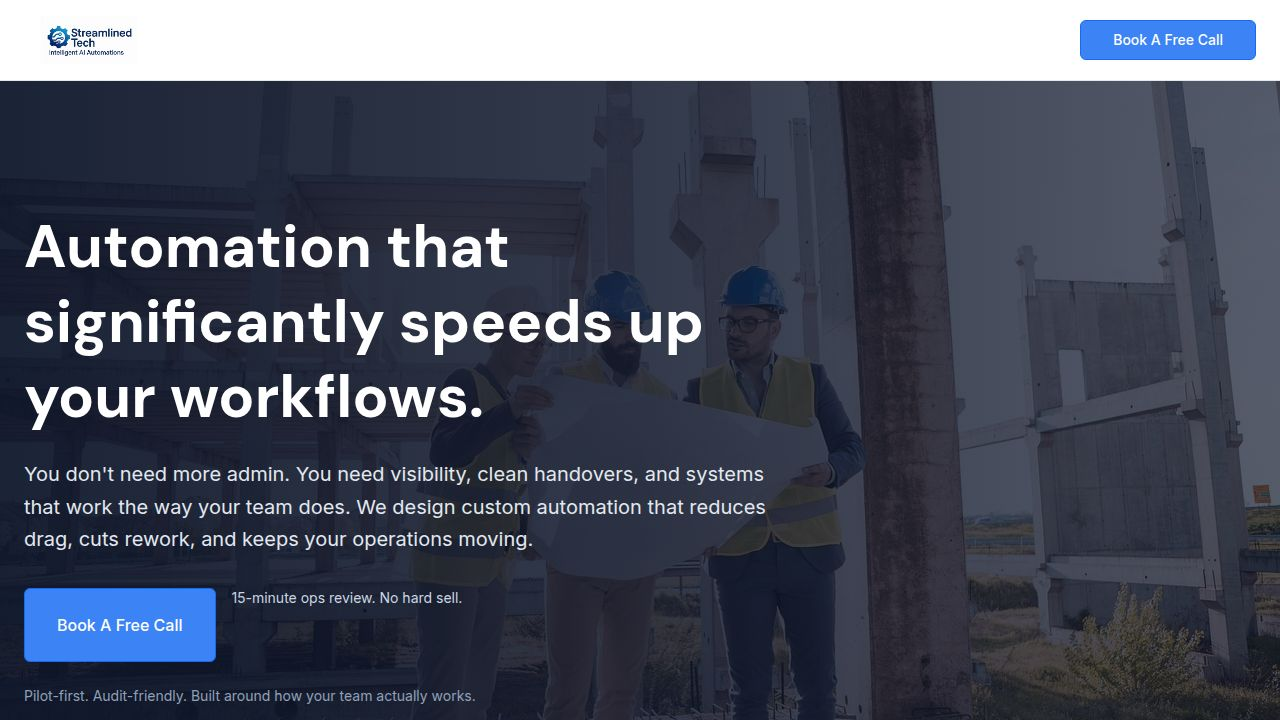
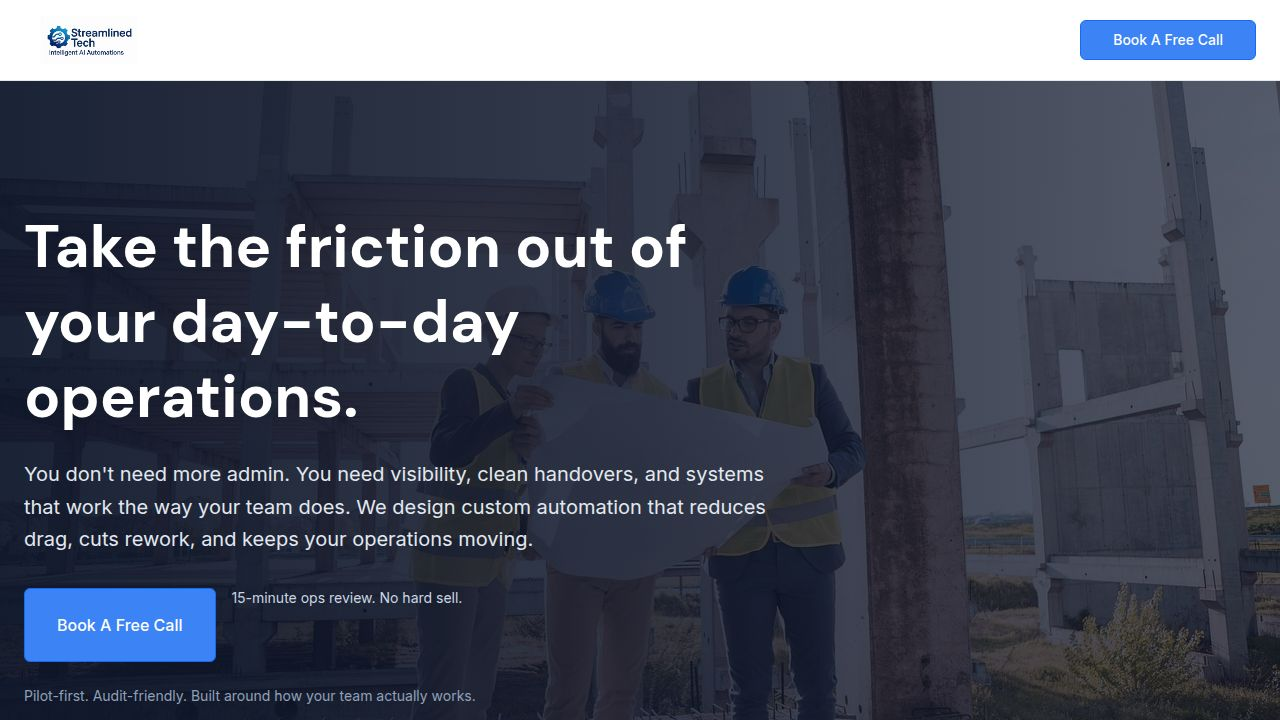
Update main headline to improve user focus
Changes the main headline in the home page component from "Significantly speed up your workflows." to "Take the friction out of your day-to-day operations." in client/src/pages/home.tsx.

Replit-Commit-Author: Agent
Replit-Commit-Session-Id: a5c8816e-f100-49e1-b8d2-19ca58ff2013
Replit-Commit-Checkpoint-Type: full_checkpoint
Replit-Commit-Event-Id: 87e51a2a-c854-4502-b212-4707a04bd20d
Replit-Commit-Screenshot-Url: https://storage.googleapis.com/screenshot-production-us-central1/de16628e-7dd7-413c-b797-261162c03ab4/a5c8816e-f100-49e1-b8d2-19ca58ff2013/jq5HI1V
Replit-Helium-Checkpoint-Created: true

Changed region(s): [[0.0, 0.3972, 0.5625, 0.4889], [0.0, 0.3056, 0.5312, 0.3972], [0.0, 0.5194, 0.375, 0.6111]]

diff --git a/client/src/pages/home.tsx b/client/src/pages/home.tsx
@@ -37,7 +37,7 @@ export default function Home() {
         <div className="relative z-10 container mx-auto px-6 py-24 md:py-32">
           <div className="max-w-3xl">
             <h1 className="text-4xl md:text-5xl lg:text-6xl font-display font-bold text-white mb-6 leading-tight" data-testid="text-hero-headline">
-              Significantly speed up your workflows.
+              Take the friction out of your day-to-day operations.
             </h1>
             <p className="text-lg md:text-xl text-slate-200 mb-8 leading-relaxed">
               You don't need more admin. You need visibility, clean handovers, and systems that work the way your team does. We design custom automation that reduces drag, cuts rework, and keeps your operations moving.
